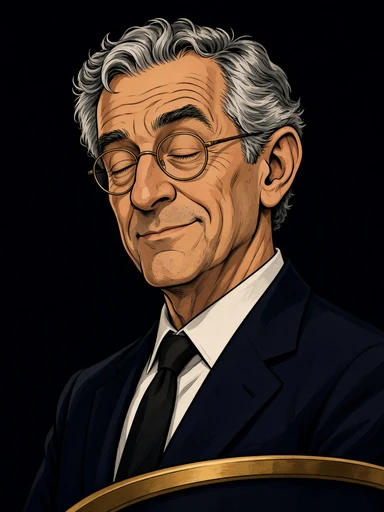
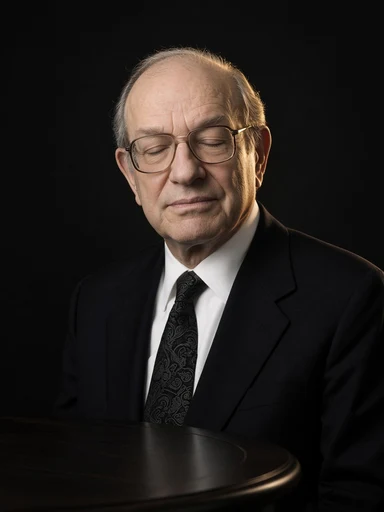
Sync photographic xlsx batch (PR #19) from silver-board main.
5 keys: volcker, greenspan, friedman, marcrich, dauphin. 108 photoreal total.

diff --git a/avatars/README.md b/avatars/README.md
@@ -16,8 +16,8 @@ Photoreal remaining original-roster historical + mythic (2026-10-13): `alexander
 
 Photoreal xlsx living batch 1 (2026-10-13): `vitalik`, `jensen`, `altman`, `dorsey`, `carney`, `amodei`, `hassabis`, `alden` — self-recognition pitch bar.
 
-Photoreal xlsx living batch 2 (2026-10-13): `yakovenko`, `armstrong`, `allaire`, `caitlinlong`, `peirce`, `branson` (Mark Branson / FINMA, not Richard), `jordan`, `hildebrand`, `carstens`, `lassonde`, `bristow`, `palmer`, `vongreyerz`, `sebag`, `pozsar`, `collison`, `levchin`, `masters`, `garlinghouse`, `haun`, `dixon`, `kulechov`, `leshner`, `brooks`, `nazarov`, `mesaric`, `hardy`, `weir`, `glasenberg`, `tornqvist`, `yergin`, `moser`, `murray`, `mobius` — self-recognition pitch bar.
+Photoreal xlsx living batch 2 (2026-10-13): `yakovenko`, `armstrong`, `allaire`, `caitlinlong`, `peirce`, `branson` (Mark Branson / FINMA, not Richard), `jordan`, `hildebrand`, `carstens`, `volcker`, `greenspan`, `friedman`, `lassonde`, `bristow`, `palmer`, `vongreyerz`, `sebag`, `pozsar`, `collison`, `levchin`, `masters`, `garlinghouse`, `haun`, `dixon`, `kulechov`, `leshner`, `brooks`, `nazarov`, `mesaric`, `hardy`, `weir`, `glasenberg`, `tornqvist`, `yergin`, `marcrich`, `dauphin`, `moser`, `murray`, `mobius` — 39 keys; living self-recognition; volcker/greenspan/friedman/marcrich/dauphin photographic (not film actors).
 
-Remaining 16 seats still cartoons until replaced (xlsx historical).
+Remaining 11 seats still cartoons until replaced (xlsx historical/mythic: newton, adamsmith, hayek, mises, rothschild, jpmorgan, solomon, solon, pinkusgreen, zeno, seneca).
 
 Held: Gandalf (still unseated — Thierry must name that seat), Saudi Aramco / PEMEX / Sinopec (organisations).
